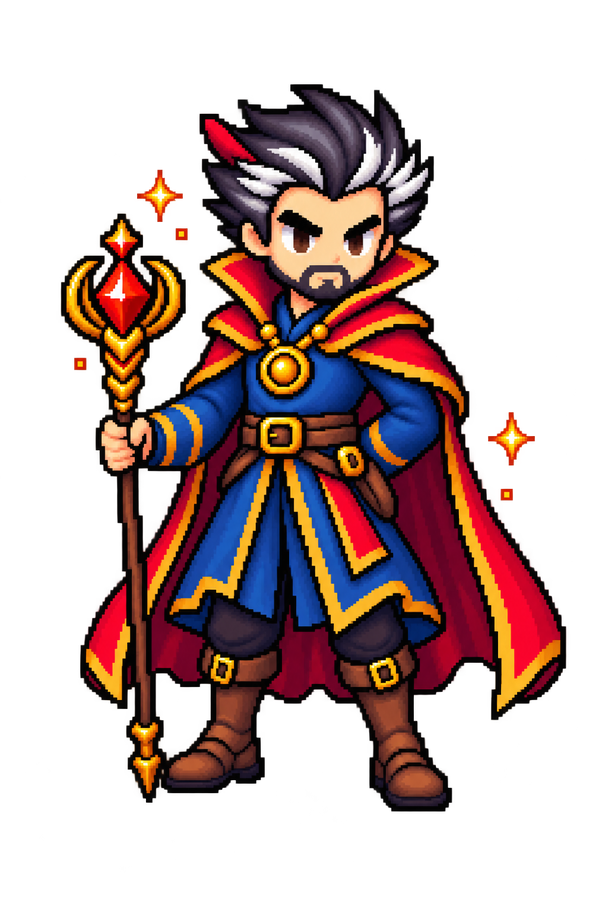
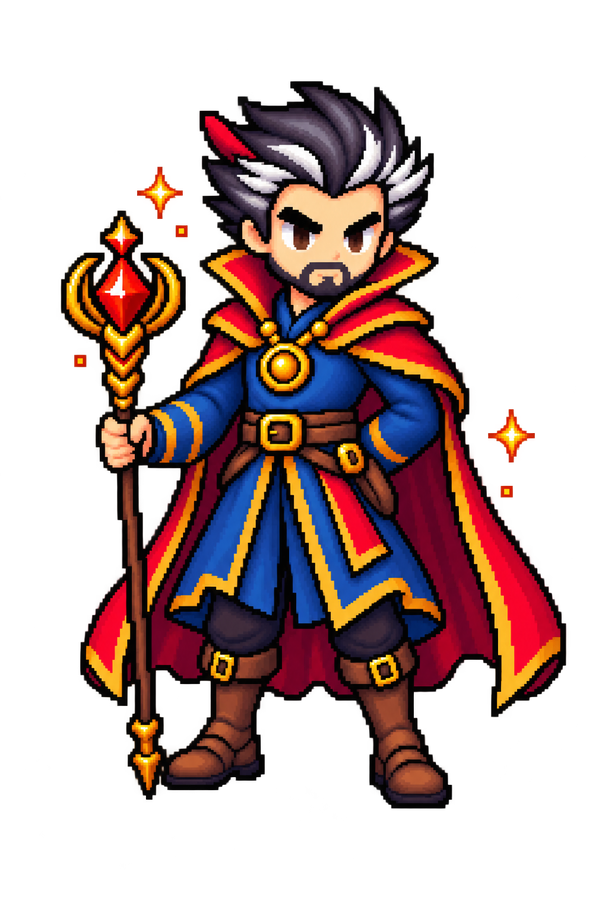
แก้ขนาด Warrior/Mage ไม่เท่ากันข้ามท่า + ปรับตำแหน่งจาก pixel-measure จริง
ต้นตอปัญหา "แต่ละท่าขนาดไม่เท่ากัน": แต่ละไฟล์ภาพต้นฉบับมีพื้นที่ว่าง/ระยะขอบ
รอบตัวละครไม่เท่ากัน (บางภาพครอปชิดตัวละครมาก บางภาพเหลือขอบเยอะ) พอบีบใส่
กล่องขนาดเท่ากันด้วย object-fit:contain ตัวละครเลยดูใหญ่-เล็กไม่เท่ากันตามท่า

แก้โดย:
- normalize ทุกไฟล์ภาพ (warrior 7 ท่า, mage 8 ท่า) ให้ครอปชิดตัวละครสม่ำเสมอ
  (fill ~91-100% ของ canvas ตัวเอง ทุกไฟล์) แทนที่จะเหลือขอบไม่เท่ากัน
- เปลี่ยน .warrior-img / .mage-img (ทุกจุดที่ใช้ รวม TransactionDetail,
  BudgetMageCard ที่ไม่ได้อยู่ใน scope วันนี้ด้วย เพื่อไม่ให้ขนาดเพี้ยนไปจากเดิม)
  จาก width+height เท่ากัน (บีบสี่เหลี่ยมจัตุรัส) เป็น height อย่างเดียว + width:auto
  ตามสัดส่วนภาพจริง เพราะแต่ละท่ามีอัตราส่วนภาพไม่เท่ากัน (เช่นท่าพอร์ทัลไฟกว้าง
  กว่าท่ายืนตรง) การบังคับสี่เหลี่ยมจัตุรัสทำให้ท่ากว้างดูเตี้ยกว่าท่าสูง
- ตำแหน่ง Warrior/Mage: รอบก่อนๆ กะจากภาพตัวอย่างที่ย่อขนาดแล้ว (ทำให้เข้าใจผิดว่า
  ต้องล้นขอบเยอะ) รอบนี้ pixel-measure จากภาพตัวอย่างจริงที่ป้อส่งความละเอียดเต็ม
  (1206x2144) พบว่าตัวละครแทบไม่ล้นขอบการ์ดเลยในภาพตัวอย่าง — ที่ดูเหมือนล้นคือ
  ปุ่ม "+" ลอย (fixed position, คนละชั้นกับการ์ด) ที่วางทับมุมการ์ดอยู่แล้ว
  ปรับ warrior-mount และ scribe-mage-mount ใหม่ตามพิกัดที่วัดได้จริง

diff --git a/src/App.jsx b/src/App.jsx
@@ -243,13 +243,21 @@ export default function App() {
            not an inline style: only a stylesheet rule can be overridden by a media query. This
            card is self-contained (BudgetMageCard.jsx), so unlike the warrior it never has to
            stay clear of someone else's numbers — just enough room to grow a bit on desktop.
-           1.5× across the board (2026-08-11, "ขยาย Warrior/Mage ทั้งคู่ 1.5 เท่า") — every
-           number below (this rule and its two scoped overrides, plus ".warrior-img" and
-           ".safe-to-spend-header"'s min-height) scaled by the same 1.5 factor together, so the
-           buffer/proportion relationships between them hold exactly as before, just bigger. */
-        .mage-img { width: clamp(96px, 27vw, 150px); height: clamp(96px, 27vw, 150px); }
+           Rescaled down (2026-08-11, "สุ่มท่า Mage" cleanup) — mascot-mage.png itself got
+           tightly re-cropped that same pass (its own transparent margin trimmed down, see
+           mascotPoses.js's own comment and the file's own history), so it now renders BIGGER at
+           any given box size than it used to (its character used to fill ~66% of its own canvas;
+           now ~93%). Shrunk this box by that same ratio (~0.71×) so the on-screen size here
+           stays the same as before the re-crop — this class isn't part of today's actual
+           request (Dashboard's own two mounts are, via ".warrior-img"/".scribe-mage-mount
+           .mage-img" below), it just has to move in lockstep with the shared source file or
+           TransactionDetail.jsx's mage would visibly shrink for no reason anyone asked for.
+           width now driven by the image's own aspect ratio (auto) instead of forced square —
+           object-fit:contain on the <img> (MageMascot.jsx) no longer has anything to "contain"
+           against once only height is constrained, but is harmless left in place. */
+        .mage-img { height: clamp(68px, 19vw, 107px); width: auto; }
         @media (min-width: 1280px) {
-          .mage-img { width: 210px; height: 210px; }
+          .mage-img { height: 150px; }
         }
 
         /* ArcherMascot.jsx's own <img> size — deliberately smaller than the warrior/mage: this
@@ -269,32 +277,35 @@ export default function App() {
            SafeToSpendCard.jsx's own MageMascot mount — sized bigger than the budget page's mage
            via a descendant override of ".mage-img" scoped to this mount specifically — NOT a
            change to ".mage-img" itself, which stays exactly as-is for BudgetMageCard.jsx (kept
-           where it was, unchanged, per instruction). Bumped up again (2026-08-11, second pass —
-           per ป้อ's own annotated mockup, he reads noticeably bigger there, closer to Warrior's
-           own scale, than the first overflow pass here left him). */
-        .scribe-mage-mount .mage-img { width: clamp(130px, 36vw, 210px); height: clamp(130px, 36vw, 210px); }
+           where it was, unchanged, per instruction).
+           Fourth pass (2026-08-11) — the first three passes were all guessed off a downscaled
+           thumbnail read of ป้อ's own reference mockup; this pass instead pixel-measured the two
+           actual reference images at full 1206×2144 resolution (both poses — standing-calm and
+           portal-ring — share the same size/position in his mockup, only the art differs) and
+           reverse-engineered the numbers from that. Also now height-only + width:auto (matches
+           ".mage-img"'s own 2026-08-11 rescale above) since mage/*.png's poses aren't all the
+           same aspect ratio (see mascotPoses.js) — a fixed square box with object-fit:contain
+           made a tall pose and a wide pose (e.g. the portal-ring art, wider due to its own glow
+           ring) render at visibly different heights for the same box; matching height directly
+           keeps every pose the same apparent size regardless of its own canvas shape. */
+        .scribe-mage-mount .mage-img { height: clamp(78px, 21vw, 118px); width: auto; }
         @media (min-width: 1280px) {
-          .scribe-mage-mount .mage-img { width: 270px; height: 270px; }
+          .scribe-mage-mount .mage-img { height: 150px; }
         }
 
-        /* ".scribe-mage-mount" itself: absolutely positioned in the card's bottom-right corner
-           (2026-08-11, "ให้มาสคอตล้นออกนอกกรอบการ์ดได้"), same idiom as Dashboard.jsx's own
-           ".warrior-mount" — negative right/bottom let him spill past the card's own edges
-           instead of being confined inside it. No explicit z-index (sits at the default level,
-           below the header text's zIndex:1 and the category list's own zIndex:1 — see
-           SafeToSpendCard.jsx's own comments on both), and well below the "+" FAB's zIndex:41
-           (App.jsx's ".dashboard-fab"), so neither the numbers nor the FAB can ever end up
-           visually covered by him regardless of how far he overlaps.
-           Third pass (2026-08-11) — after fixing the mount's containing block (moved inside
-           ".safe-to-spend-header", see SafeToSpendCard.jsx's own comment — it used to anchor to
-           the whole card and could drop below several budget rows entirely), ป้อ's feedback was
-           he now sits too far right; pulled the right offset in a bit (was -34px/-46px mobile,
-           -46px/-60px desktop). Still a best-effort read of a mockup, not pixel-measured — nudge
-           again if it's still off. */
-        .scribe-mage-mount { position: absolute; right: -14px; bottom: -46px; }
-        @media (min-width: 1280px) {
-          .scribe-mage-mount { right: -22px; bottom: -60px; }
-        }
+        /* ".scribe-mage-mount" itself: positioned within ".safe-to-spend-header" (its containing
+           block — see SafeToSpendCard.jsx's own comment on why it's nested there and not the
+           whole card). No explicit z-index (sits at the default level, below the header text's
+           zIndex:1 and the category list's own zIndex:1 — see SafeToSpendCard.jsx's own comments
+           on both), and well below the "+" FAB's zIndex:41 (App.jsx's ".dashboard-fab").
+           Fourth pass (2026-08-11) — same pixel-measurement pass as the size rule above. The
+           previous three passes all pushed him out with a large negative right/bottom assuming
+           the reference showed him spilling dramatically past the card's own edge — at full
+           resolution he actually stays INSIDE the card in both reference poses (it's the
+           separately-floating "+" FAB, not Mage himself, that overlaps the corner). top/right
+           here place him relative to the header box the same way the reference places him
+           relative to the number block, instead of anchoring off the card's far corner. */
+        .scribe-mage-mount { position: absolute; top: 14%; right: 8px; }
 
         /* ".safe-to-spend-card" overflow — same split as ".passbook-card" below: hidden by
            default (clips to the card's own rounded corners, matching every theme's prior look),
@@ -380,10 +391,14 @@ export default function App() {
            override, SafeToSpendCard.jsx's ".scribe-mage-mount") via a descendant override
            scoped to this mount specifically, same idiom as ".scribe-mage-mount .mage-img"
            above. Used to match ".slime-img-party" exactly; no longer does since this rule alone
-           was scaled 1.5× — see that rule's own comment for why. */
-        .budget-mage-mount .mage-img { width: clamp(135px, 33vw, 195px); height: clamp(135px, 33vw, 195px); }
+           was scaled 1.5× — see that rule's own comment for why.
+           Rescaled down (2026-08-11, ~0.71×) for the same reason as the base ".mage-img" rule
+           above — mascot-mage.png's own transparent margin got trimmed tighter that same pass,
+           so this box has to shrink correspondingly to keep this page's on-screen mage size
+           unchanged (not something ป้อ asked to touch today). height-only + width:auto too. */
+        .budget-mage-mount .mage-img { height: clamp(96px, 24vw, 139px); width: auto; }
         @media (min-width: 1280px) {
-          .budget-mage-mount .mage-img { width: 285px; height: 285px; }
+          .budget-mage-mount .mage-img { height: 203px; }
         }
 
         /* PartyLevelUpOverlay.jsx (RPG party interactions, part 5) — the "big" celebration,
@@ -526,45 +541,37 @@ export default function App() {
         }
 
         /* Dashboard.jsx's net-worth card mascot mount: standing beside the net-worth number,
-           full opacity, at every width — not a background layer. Third pass (2026-08-11) — was
-           top:42%/translateY(-50%) (vertically centered) then top:33% on mobile, but ป้อ's own
-           annotated mockup has him standing with his feet near the card's BOTTOM edge on mobile
-           too, same as desktop already did — switched mobile to the same bottom-anchored idiom
-           instead of a top percentage, rather than continuing to guess at a top% that lines his
-           feet up correctly. z-index:0 is deliberately BELOW the numbers content div's own
-           zIndex:1 (Dashboard.jsx) as a safety net — the net-worth figure can render arbitrarily
-           wide (an unbounded real balance, not a fixed-width label), so on a narrow phone with a
-           long number it's possible for the two to overlap; z-index makes sure the number wins
-           that overlap and stays fully readable rather than the mascot covering digits. */
-        .warrior-mount { position: absolute; bottom: 6px; right: -10px; z-index: 0; }
-        /* Fourth pass (2026-08-11) — ป้อ's feedback after the bottom-anchor fix: still needs to
-           come in toward the left a bit (right offset less negative = less overlap). */
-        @media (max-width: 1279px) {
-          .warrior-mount { right: -22px; }
-        }
-        @media (min-width: 1280px) {
-          .warrior-mount { right: -16px; }
-        }
+           full opacity, at every width — not a background layer.
+           Fourth pass (2026-08-11) — the previous three passes (top:42% centered, then top:33%,
+           then a bottom-anchor) were all guessed off a downscaled thumbnail read of ป้อ's own
+           reference mockup. This pass instead pixel-measured the actual reference image at full
+           1206×2144 resolution: his own top edge sits at ~43.5% down the card, and his right edge
+           (shield tip) stops ~14px shy of the card's own right edge — he does NOT cross it in the
+           reference (that was a misread of the downscaled thumbnail; it's the separately-floating
+           "+" FAB, not him, that overlaps a card's corner in the mockup). top-anchored (not
+           centered/bottom-anchored) so the box's own top edge — which sits right at his hairline
+           now that mascot-warrior.png is tightly cropped, see ".warrior-img" below — lines up
+           directly with that measured 43.5% point.
+           z-index:0 is deliberately BELOW the numbers content div's own zIndex:1 (Dashboard.jsx)
+           as a safety net — the net-worth figure can render arbitrarily wide (an unbounded real
+           balance, not a fixed-width label), so on a narrow phone with a long number it's
+           possible for the two to overlap; z-index makes sure the number wins that overlap and
+           stays fully readable rather than the mascot covering digits. */
+        .warrior-mount { position: absolute; top: 43%; right: 14px; z-index: 0; }
 
-        /* WarriorMascot.jsx's own <img> size: clamp() shrinks it with the viewport so it stays
-           clear of the number on narrow phones, but with a 90px floor (not smaller — a too-tiny
-           guard reads as an accident, not a mascot) and landing on 140px once there's a bit more
-           room. Desktop is bigger still (see the min-width:1280px override below) — that's
-           taller than this card's own height, which is why ".passbook-card" below switches
-           overflow to visible at that same breakpoint, letting the mascot stand taller than the
-           card instead of being clipped to it. Kept as a class (not inline on the <img>) so the
-           desktop media query can win — an inline style always beats an external stylesheet rule
-           of any specificity unless that rule uses !important, which this file deliberately
-           avoids. */
-        /* 1.5× (2026-08-11, "ขยาย Warrior/Mage ทั้งคู่ 1.5 เท่า") — see ".mage-img"'s own
-           comment above for the scaling approach. Re-verified against the same overlap risk the
-           200px note below originally called out (reaching into the speech bubble/label text) —
-           still clear at 300px with the current mascot-warrior.png crop (right-biased within its
-           own canvas, see that file's own 2026-08-11 provenance note), but if that art is ever
-           swapped again this is the number to re-check first. */
-        .warrior-img { width: clamp(135px, 39vw, 210px); height: clamp(135px, 39vw, 210px); }
+        /* WarriorMascot.jsx's own <img> size. Fourth pass (2026-08-11, same pixel-measurement
+           pass as the mount rule above) — also height-only + width:auto now (matches ".mage-img"'s
+           own 2026-08-11 rescale) since the pose pool (mascotPoses.js) isn't all the same aspect
+           ratio; matching height directly keeps every pose the same apparent size regardless of
+           its own canvas shape, instead of a fixed square box object-fit:contain-ing each one
+           differently. Values themselves are smaller than the previous pass's because
+           mascot-warrior.png got tightly re-cropped that same pass too (its character used to
+           fill only ~55% of its own canvas, mostly blank space; now ~93%) — for the SAME
+           measured on-screen size, a much tighter crop needs a smaller box. 90px floor on mobile
+           (not smaller — a too-tiny guard reads as an accident, not a mascot). */
+        .warrior-img { height: clamp(90px, 24vw, 135px); width: auto; }
         @media (min-width: 1280px) {
-          .warrior-img { width: 300px; height: 300px; }
+          .warrior-img { height: 180px; }
         }
 
         /* Dashboard.jsx's net-worth card stats row (รายรับ/รายจ่าย/โอน-ชำระ เดือนนี้) — arcade's
